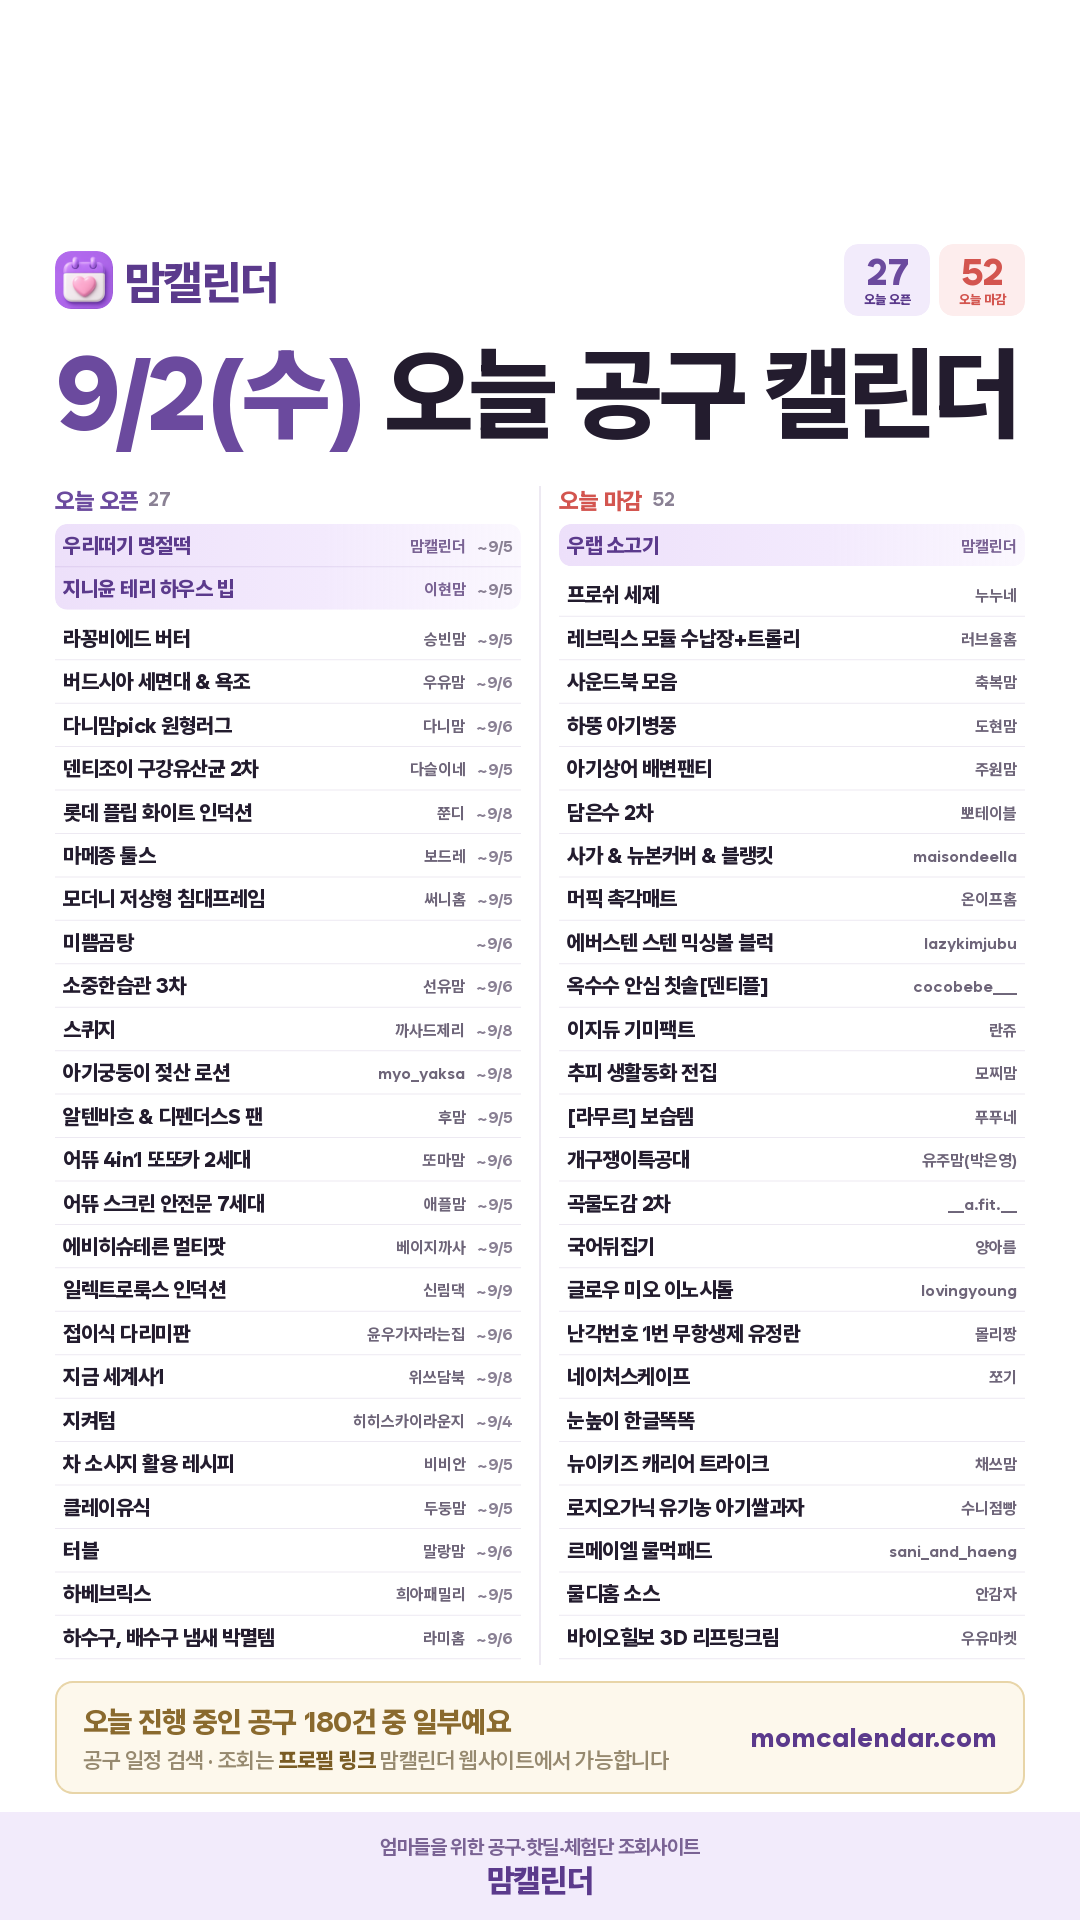
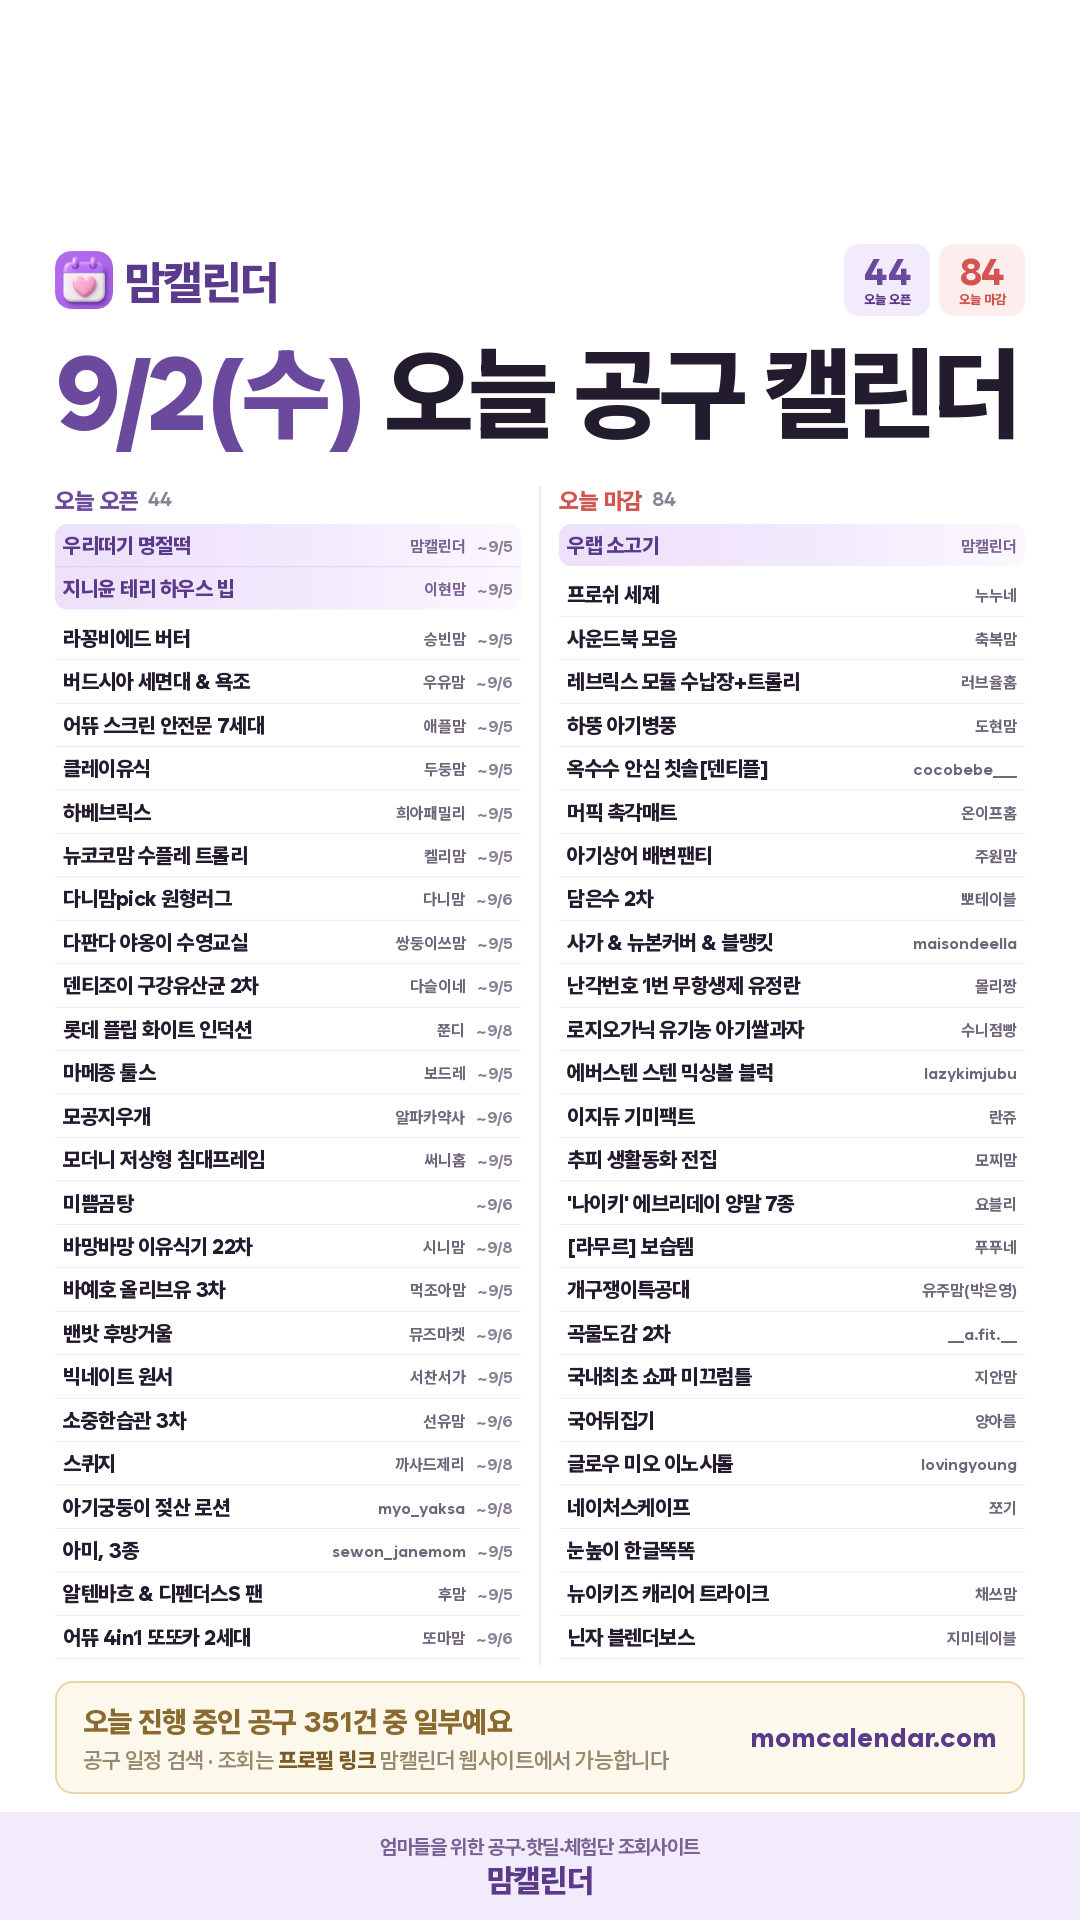
아침 인스타 카드 (2026-08-31)

diff --git a/daily/2026-09-02.html b/daily/2026-09-02.html
@@ -19,7 +19,7 @@ textarea{width:100%;height:260px;border:1px solid #E3DCEF;border-radius:10px;pad
 .todo p{font-size:12.5px;color:#6B6379;line-height:1.75;margin-top:6px}
 .todo a{color:#5B2E8C;font-weight:700}
 </style></head><body>
-<div class="hd"><div class="wrap"><h1>9월 2일(수) 인스타 카드</h1><p>오픈 27건 · 마감 52건</p></div></div>
+<div class="hd"><div class="wrap"><h1>9월 2일(수) 인스타 카드</h1><p>오픈 44건 · 마감 84건</p></div></div>
 <div class="wrap">
   
   <div class="card"><img src="./2026-09-02.png" alt="오늘 공구 카드"></div>
@@ -30,7 +30,7 @@ textarea{width:100%;height:260px;border:1px solid #E3DCEF;border-radius:10px;pad
 맘캘린더에서 공유드리는
 9월 2일(수) 오늘 공구 캘린더
 
-오픈 26건 · 마감 46건
+오픈 43건 · 마감 73건
 
 ━━━━━━━━━━━━━━
 
@@ -41,76 +41,73 @@ textarea{width:100%;height:260px;border:1px solid #E3DCEF;border-radius:10px;pad
 🔓 오늘 오픈하는 공구
 · 라꽁비에드 버터 — 승빈맘 (~9/5)
 · 버드시아 놀이형 세면대 &amp; 욕조 — 우유맘 (~9/6)
+· 어뜌 스크린 안전문 7세대 — 애플맘 (~9/5)
+· 클레이유식 — 두둥맘 (~9/5)
+· 하베브릭스 — 희아패밀리 (~9/5)
+· 뉴코코맘 수플레 트롤리 — 켈리맘 (~9/5)
 · 다니맘pick 원형러그 — 다니맘 (~9/6)
+· 다판다 편의점·야옹이 수영교실 — 쌍둥이쓰맘 (~9/5)
 · 덴티조이 구강유산균 2차 — 다슬이네 (~9/5)
 · 롯데 플립 화이트 인덕션 — 쭌디 (~9/8)
 · 마메종 툴스 — 보드레 (~9/5)
+· 모공지우개 — 알파카약사 (~9/6)
 · 모더니 저상형 침대프레임 — 써니홈 (~9/5)
 · 미쁨곰탕 —  (~9/6)
+· 바망바망 이유식기 22차 — 시니맘 (~9/8)
+· 바예호 올리브유 3차 — 먹조아맘 (~9/5)
+· 밴밧 후방거울 — 뮤즈마켓 (~9/6)
+· 빅네이트 원서 — 서찬서가 (~9/5)
 · 소중한습관 3차 — 선유맘 (~9/6)
 · 스퀴지 — 까사드제리 (~9/8)
 · 아기궁둥이 젖산 로션 6차 — myo_yaksa (~9/8)
+· 아미, 스투시, 꼼데 롱슬리브 3종 — sewon_janemom (~9/5)
 · 알텐바흐 저압냄비 &amp; 디펜더스S 팬 — 후맘 (~9/5)
 · 어뜌 4in1 또또카 2세대 — 또마맘 (~9/6)
-· 어뜌 스크린 안전문 7세대 — 애플맘 (~9/5)
 · 에비히슈테른 계량 멀티팟 — 베이지까사 (~9/5)
+· 엠락틴 바디로션 — 묘약사 (~9/5)
+· 온모락 사태곰탕 — 러브모모 (~9/5)
 · 일렉트로룩스 인덕션 — 신림댁 (~9/9)
+· 일프로 가을 신상 고쟁이·모달티·실내복 — 산들맘 (~9/5)
 · 접이식 다리미판 — 윤우가자라는집 (~9/6)
 · 지금 세계사1 — 위쓰담북 (~9/8)
 · 지켜텀 — 히히스카이라운지 (~9/4)
-· 차 야채듬뿍 소시지 활용 레시피 — 비비안 (~9/5)
-· 클레이유식 — 두둥맘 (~9/5)
-· 터블 — 말랑맘 (~9/6)
-· 하베브릭스 — 희아패밀리 (~9/5)
-· 하수구, 배수구 냄새 박멸템 — 라미홈 (~9/6)
+…나머지 9건은 맘캘린더 사이트에서 보실 수 있어요
 
 ⏰ 오늘 마감하는 공구
 · 우랩 소고기 — 맘캘린더 @momcal_
 · 프로쉬 세제 — 누누네
-· 레브릭스 모듈 수납장+트롤리 — 러브율홈
 · 사운드북 모음 — 축복맘
+· 레브릭스 모듈 수납장+트롤리 — 러브율홈
 · 하뚱 아기병풍 — 도현맘
+· 옥수수 안심 칫솔[덴티플] — cocobebe___
+· 머픽 촉각매트 — 온이프홈
 · 아기상어 배변팬티 — 주원맘
 · 담은수 2차 — 뽀테이블
 · 사가 방수쿠션 &amp; 뉴본커버 &amp; 블랭킷 — maisondeella
-· 머픽 촉각매트 — 온이프홈
+· 난각번호 1번 무항생제 유정란 — 몰리짱
+· 로지오가닉 유기농 아기쌀과자 — 수니점빵
 · 에버스텐 스텐 믹싱볼 + 블럭 2차 — lazykimjubu
-· 옥수수 안심 칫솔[덴티플] — cocobebe___
 · 이지듀 기미팩트 — 란쥬
 · 추피 생활동화 전집 — 모찌맘
+· '나이키' 에브리데이 양말 7종 — 요블리
 · [라무르] 보습템 — 푸푸네
 · 개구쟁이특공대 — 유주맘(박은영)
 · 곡물도감 2차 — __a.fit.__
+· 국내최초 쇼파 미끄럼틀 — 지안맘
 · 국어뒤집기 — 양아름
 · 글로우 미오 이노시톨 — lovingyoung
-· 난각번호 1번 무항생제 유정란 — 몰리짱
 · 네이처스케이프 — 쪼기
 · 눈높이 한글똑똑 — 
 · 뉴이키즈 캐리어 트라이크 — 채쓰맘
-· 로지오가닉 유기농 아기쌀과자 — 수니점빵
+· 닌자 블렌더보스 — 지미테이블
+· 다판다편의점 야옹이 수영교실 시리즈 — 쌍둥이쓰맘
+· 더설하 4차 — 미미하리
+· 더헤븐 리조트 — yeoniiique
+· 데코아르 멜로우 스냅백 충전케이블 — 우아맘
+· 럭키밤비네 헤어핀 헤어밴드 — seojiyeon._
 · 르메이엘 물먹패드 — sani_and_haeng
-· 물디홈 소스 — 안감자
-· 바이오힐보 3D 리프팅크림 — 우유마켓
-· 박수재명인 달항아리 — 히히스카이라운지
-· 붐케어 하이체어 — 드니맘
-· 빅토리아슈즈 맘앤키즈 — 다겨미네
-· 실큰두부2차 — 하이쩡
-· 아람 자라미 — ayooni.story
-· 아임수차·코차 — 대장언니
-· 엄마를 만나러 가는 길 — 위쓰담북
-· 오니츠카 타이거 뮬 4종 — sewon_janemom
-· 올레샷 — shonyroom
-· 유어그린 비타민C — 우동맘
-· 일론 신호등 부스터 — 봉선아
-· 조리용 올리브오일 — 진명테이블
-· 주니물컵 — 따리따리
-· 지니핑크 베이직 가을 티셔츠 — 헤이지니
-· 코코보드 — 또담이네
-· 테이블 보호필름 6차 — ro_jun_home
-· 트루엔 오메가3 이지 — 삐약약사
-· 프로베티 — 0909iii09
-· 홀쑥이 — 민들레
-· 환절기케어 퀘르세틴 부스터 — 베이지약사
+· 마베비 찹찹 이유식포트 보틀워머 — uriu_grow
+…나머지 40건은 맘캘린더 사이트에서 보실 수 있어요
 
 ━━━━━━━━━━━━━━
 
@@ -123,7 +120,7 @@ textarea{width:100%;height:260px;border:1px solid #E3DCEF;border-radius:10px;pad
 ⚠ 공구 일정은 판매자 사정에 따라 변경되거나 조기 마감될 수 있어요. 구매 전에 해당 셀러 계정에서 한 번 더 확인해 주세요.
 
 #맘캘린더 #공구일정 #육아공구 #육아용품 #책육아 #육아맘 #맘스타그램 #공동구매 #육아정보 #공구정보 #육아템 #먹거리공구</textarea>
-    <div class="meta">2104자 / 2200자 · 오픈 24/24 · 마감 46/46</div>
+    <div class="meta">2183자 / 2200자 · 오픈 32/41 · 마감 33/73</div>
     <button class="btn btn2" onclick="cp('cap','캡션')">캡션 복사</button>
   </div>
   <div class="card">
@@ -141,23 +138,31 @@ textarea{width:100%;height:260px;border:1px solid #E3DCEF;border-radius:10px;pad
 · 카톡 수다방 → https://open.kakao.com/o/gr2kJhCh
 ─────────────
 
-9월 2일(수), 오늘 새로 오픈하는 인스타 공구일정 27건을 카테고리별로 정리했어요.
-오늘 마감되는 공구도 52건 있으니 놓치지 마세요.
+9월 2일(수), 오늘 새로 오픈하는 인스타 공구일정 44건을 카테고리별로 정리했어요.
+오늘 마감되는 공구도 84건 있으니 놓치지 마세요.
 
-■ 오늘 오픈하는 공구 27건
+■ 오늘 오픈하는 공구 44건
 
 [육아]
+· 뉴코코맘 수플레 트롤리 — 켈리맘 (~9/5 마감)
+· 다판다 편의점·야옹이 수영교실 — 쌍둥이쓰맘 (~9/5 마감)
+· 바망바망 이유식기 22차 — 시니맘 (~9/8 마감)
+· 밴밧 후방거울 — 뮤즈마켓 (~9/6 마감)
 · 버드시아 놀이형 세면대 &amp; 욕조 — 우유맘 (~9/6 마감)
+· 빅네이트 원서 — 서찬서가 (~9/5 마감)
 · 아기궁둥이 젖산 로션 6차 — myo_yaksa (~9/8 마감)
 · 어뜌 4in1 또또카 2세대 — 또마맘 (~9/6 마감)
 · 어뜌 스크린 안전문 7세대 — 애플맘 (~9/5 마감)
+· 일프로 가을 신상 고쟁이·모달티·실내복 — 산들맘 (~9/5 마감)
 · 지금 세계사1 — 위쓰담북 (~9/8 마감)
 · 지니윤 오가닉 테리 하우스 빕 — 이현맘 (~9/5 마감)
 · 클레이유식 — 두둥맘 (~9/5 마감)
 · 터블 — 말랑맘 (~9/6 마감)
+· 폴프랜즈 양말 가을신상 — 라라맘 (~9/12 마감)
 · 하베브릭스 — 희아패밀리 (~9/5 마감)
 
 [리빙]
+· VBC까사 2차 — 리니월드 (~9/5 마감)
 · 다니맘pick 원형러그 — 다니맘 (~9/6 마감)
 · 소중한습관 3차 — 선유맘 (~9/6 마감)
 · 스퀴지 — 까사드제리 (~9/8 마감)
@@ -165,32 +170,49 @@ textarea{width:100%;height:260px;border:1px solid #E3DCEF;border-radius:10px;pad
 · 에비히슈테른 계량 멀티팟 — 베이지까사 (~9/5 마감)
 · 접이식 다리미판 — 윤우가자라는집 (~9/6 마감)
 · 지켜텀 — 히히스카이라운지 (~9/4 마감)
+· 핀일로 멀티팟 — widsunshine (~9/5 마감)
 · 하수구, 배수구 냄새 박멸템 — 라미홈 (~9/6 마감)
 
 [식품]
 · 라꽁비에드 버터 — 승빈맘 (~9/5 마감)
 · 미쁨곰탕 —  (~9/6 마감)
 · 미쁨곰탕 3차 — 콩알픽 (~9/6 마감)
+· 바예호 올리브유 3차 — 먹조아맘 (~9/5 마감)
+· 온모락 사태곰탕 — 러브모모 (~9/5 마감)
 · 우리떠기 명절떡 — 맘캘린더 (~9/5 마감)
 · 차 야채듬뿍 소시지 활용 레시피 — 비비안 (~9/5 마감)
+· 호룽지 — 뽀미니 (~9/5 마감)
 
 [건강]
 · 덴티조이 구강유산균 2차 — 다슬이네 (~9/5 마감)
+· 트루엔 아르기닌 퍼포먼스 5000·퓨어젠 피크노제놀 — 뵤리약사 (~9/5 마감)
+
+[뷰티]
+· NEW 유라이크 — 러브지나 (~9/5 마감)
+· 모공지우개 — 알파카약사 (~9/6 마감)
+· 엠락틴 바디로션 — 묘약사 (~9/5 마감)
 
 [가전]
 · 롯데 플립 화이트 인덕션 — 쭌디 (~9/8 마감)
 · 마메종 툴스 — 보드레 (~9/5 마감)
 · 일렉트로룩스 인덕션 — 신림댁 (~9/9 마감)
 
+[패션]
+· 아미, 스투시, 꼼데 롱슬리브 3종 — sewon_janemom (~9/5 마감)
+
 [인테리어]
 · 모더니 저상형 침대프레임 — 써니홈 (~9/5 마감)
 
-■ 오늘 마감하는 공구 52건
+■ 오늘 마감하는 공구 84건
+· '나이키' 에브리데이 양말 7종 — 요블리
 · [라무르] 보습템 — 푸푸네
 · De3 오메가3 — __eun.mee
+· JBJ 리비에르 올스텐304 세탁바구니 — 킴줌마
 · MS 비타페린 비헴철 철분영양제 — 
+· WMF 미니그릴 — 이비쿡스
 · 개구쟁이특공대 — 유주맘(박은영)
 · 곡물도감 2차 — __a.fit.__
+· 국내최초 쇼파 미끄럼틀 — 지안맘
 · 국어뒤집기 — 양아름
 · 글로우 미오 이노시톨 — lovingyoung
 · 난각번호 1번 무항생제 유정란 — 몰리짱
@@ -198,43 +220,71 @@ textarea{width:100%;height:260px;border:1px solid #E3DCEF;border-radius:10px;pad
 · 눈높이 한글똑똑 — 
 · 뉴이키즈 캐리어 트라이크 — 채쓰맘
 · 뉴질랜드산 자연방목 목초우 기버터 3차 — 몰리짱
+· 닌자 블렌더보스 — 지미테이블
+· 다판다편의점 야옹이 수영교실 시리즈 — 쌍둥이쓰맘
 · 닥터체크 원퍼데이 마그샷 — 
 · 담은수 2차 — 뽀테이블
+· 더설하 4차 — 미미하리
+· 더헤븐 리조트 — yeoniiique
+· 데코아르 멜로우 스냅백 충전케이블 — 우아맘
+· 럭키밤비네 헤어핀 헤어밴드 — seojiyeon._
 · 레브릭스 모듈 수납장+트롤리 — 러브율홈
 · 로지오가닉 유기농 아기쌀과자 — 수니점빵
 · 르메이엘 물먹패드 — sani_and_haeng
+· 마베비 찹찹 이유식포트 보틀워머 — uriu_grow
+· 마이아 마이쿠커 두유제조기 — 꼉마미
+· 맘스보드 자석보드 회전책장 — 도토맘
 · 머픽 촉각매트 — 온이프홈
 · 물디홈 소스 — 안감자
+· 미끄럼하우스 미끄럼틀 — 럭키지후
+· 바예호 엑스트라버진 올리브유 — 로라도라홈
 · 바이오힐보 3D 리프팅크림 — 우유마켓
 · 박수재명인 달항아리 — 히히스카이라운지
+· 발효 잔기지떡 — 몰리짱
+· 보름스튜디오 고양이 종지 소스볼 — 라라홈
 · 붐케어 하이체어 — 드니맘
 · 빅토리아슈즈 맘앤키즈 — 다겨미네
 · 사가 방수쿠션 &amp; 뉴본커버 &amp; 블랭킷 — maisondeella
 · 사운드북 모음 — 축복맘
+· 수주촌 햇 고춧가루 4차 — 쿠아카
 · 실큰두부2차 — 하이쩡
 · 아기상어 배변팬티 — 주원맘
 · 아람 자라미 — ayooni.story
 · 아임수차·코차 — 대장언니
 · 알루아 사이드 테이블&amp;행거 — 
+· 알텐바흐 메이우드 프라이팬 롯데 기획전 — 베러심플
+· 알텐바흐 식기건조대 — 라라홈
+· 양배추SOD 카무트낙산균 효소 2종 — 약사남
+· 어그 가을 신상 슈즈 — seojiyeon._
 · 엄마를 만나러 가는 길 — 위쓰담북
+· 에디슨 젓가락 시리즈 물컵 — 서숲
 · 에버스텐 스텐 믹싱볼 + 블럭 2차 — lazykimjubu
 · 오니츠카 타이거 뮬 4종 — sewon_janemom
 · 옥수수 안심 칫솔[덴티플] — @cocobebe___
+· 온 가족 보약, 금옥보감 — liz_yaksa
 · 올레샷 — shonyroom
 · 우랩 소고기 — 맘캘린더
 · 유어그린 비타민C — 우동맘
 · 이지듀 기미팩트 — 란쥬
+· 이키 추석옷 — 씽맘
 · 일론 신호등 부스터 — 봉선아
+· 전동스퀴지 2026 리뉴얼 — 워니맘
 · 조리용 올리브오일 — 진명테이블
+· 주니 스푼포크 — 윤서랑
 · 주니물컵 — 따리따리
 · 지니핑크 베이직 가을 티셔츠 — 헤이지니
+· 짜고짜고 짤순이 — 라라홈
+· 창비교육 아하 한글만들기 — 
 · 추피 생활동화 전집 — 모찌맘
 · 추피 한글판 179종 — 수니점빵
 · 코코보드 — 또담이네
 · 테이블 보호필름 6차 — ro_jun_home
 · 트루엔 오메가3 이지 — 삐약약사
+· 푸르름 소창수건 — 홈앤홈
 · 프로베티 — 0909iii09
 · 프로쉬 세제 — 누누네
+· 프리미엄 딱딱이 백도 — 구월마님
+· 플레종 오브제핏 스냅톡 정리함 — 지니하우스
 · 하뚱 아기병풍 — 도현맘
 · 홀쑥이 — 민들레
 · 환절기케어 퀘르세틴 부스터 — 베이지약사
@@ -246,7 +296,7 @@ textarea{width:100%;height:260px;border:1px solid #E3DCEF;border-radius:10px;pad
 
 ※ 공구 일정은 판매자 사정에 따라 변경되거나 조기 마감될 수 있어요. 구매 전에 해당 셀러 계정에서 한 번 더 확인해 주세요.
 
-#공구일정 #인스타공구 #인스타공구일정 #공동구매 #오늘의공구 #육아공구 #육아템 #공구모음 #롯데공구 #마메종공구 #일렉트로룩스공구 #덴티조이공구 #다니맘pick공구 #소중한습관공구 #스퀴지공구 #알텐바흐공구</textarea>
+#공구일정 #인스타공구 #인스타공구일정 #공동구매 #오늘의공구 #육아공구 #육아템 #공구모음 #롯데공구 #마메종공구 #일렉트로룩스공구 #덴티조이공구 #트루엔공구 #VBC까사공구 #다니맘pick공구 #소중한습관공구</textarea>
     <button class="btn" onclick="cp('bbody','블로그 본문 전체')">블로그 본문 전체 복사 (태그 포함)</button>
     <div class="meta">순서: 사진 저장 → 블로그 앱 글쓰기 → 제목 붙여넣기 → 본문 붙여넣기 → 본문 맨 위에 사진 추가 → 발행. 끝의 #태그들은 자동으로 태그가 돼요</div>
   </div>

diff --git a/daily/index.html b/daily/index.html
@@ -1,1 +1,1 @@
-<!DOCTYPE html><meta charset="UTF-8"><meta http-equiv="refresh" content="0;url=./2026-09-01.html">
+<!DOCTYPE html><meta charset="UTF-8"><meta http-equiv="refresh" content="0;url=./2026-09-02.html">
